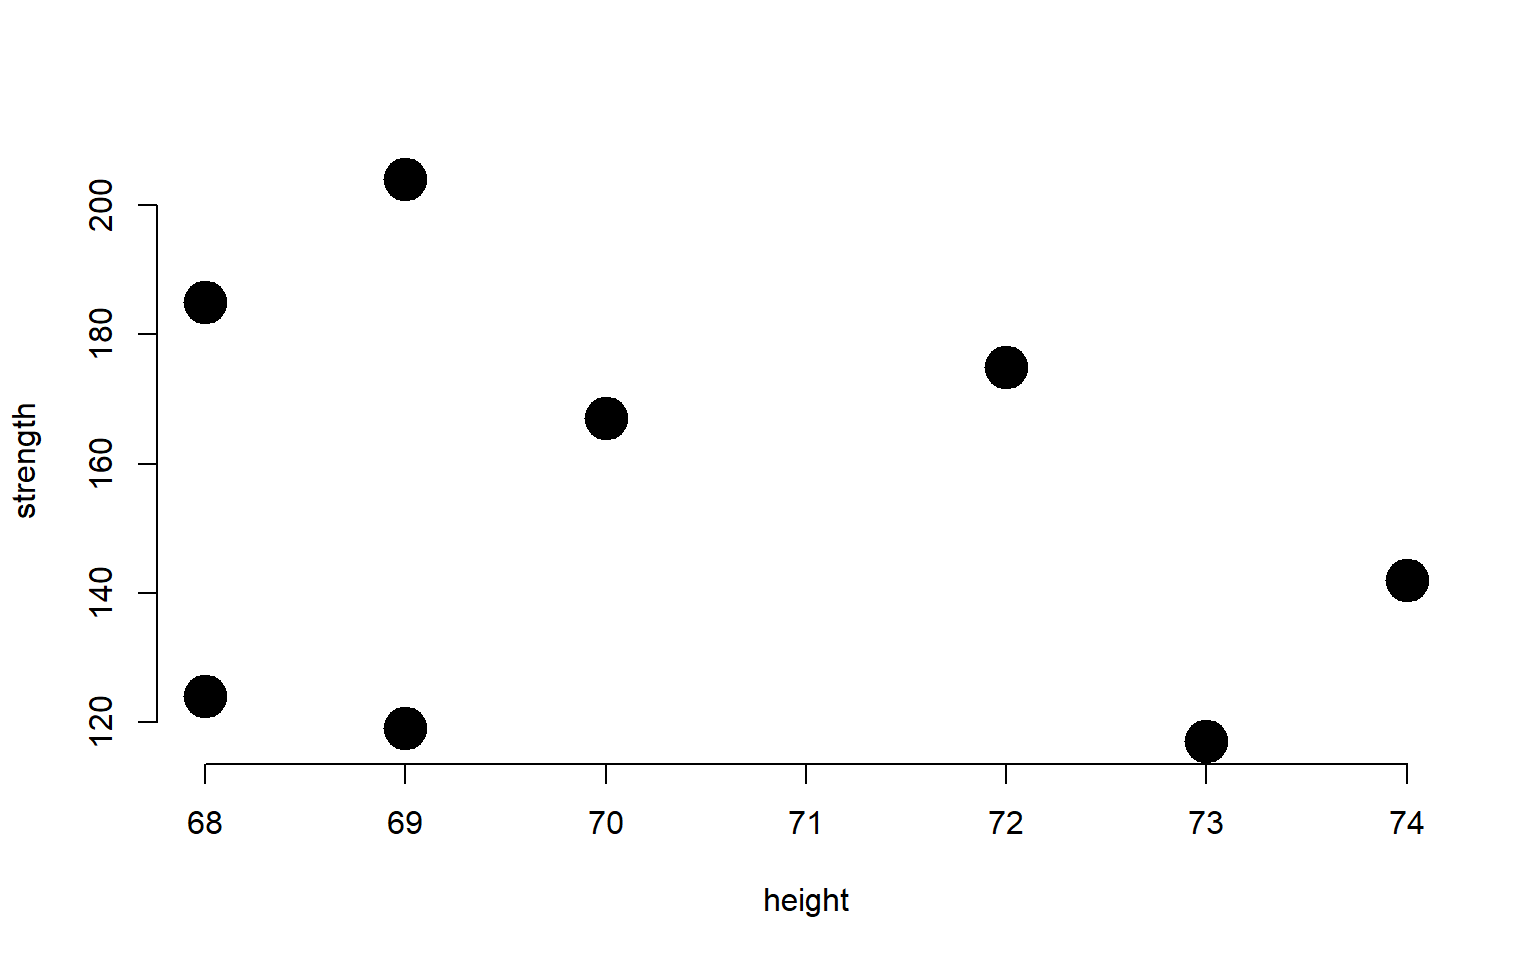
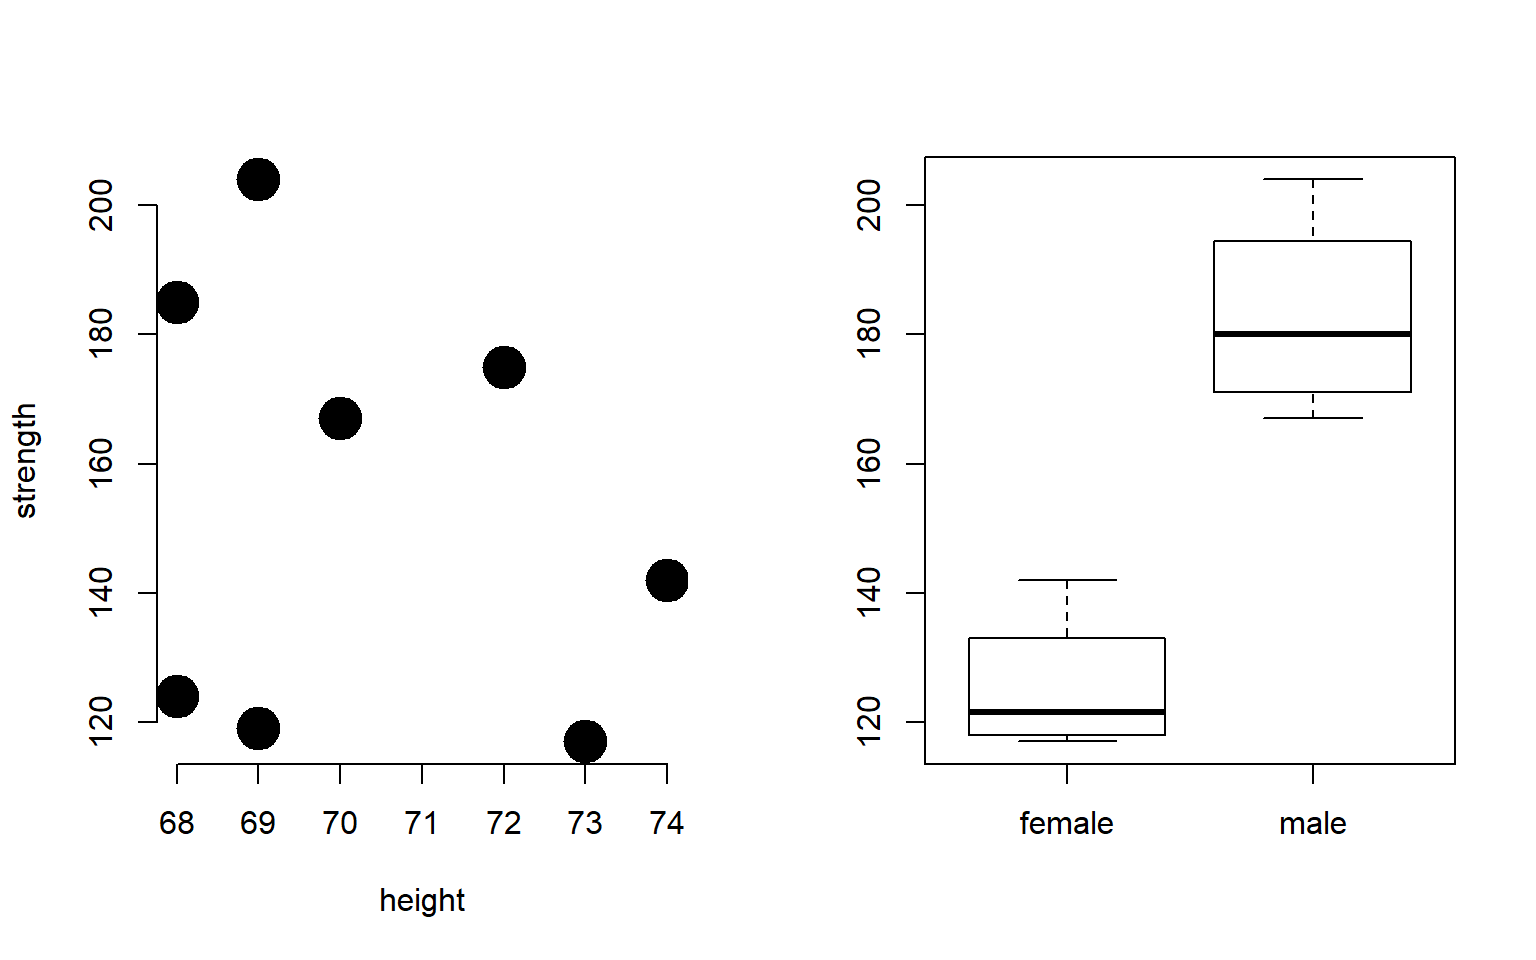
update vectors

diff --git a/ch-050-vectors.html b/ch-050-vectors.html
@@ -524,39 +524,45 @@ eyJsYW5ndWFnZSI6InIiLCJzYW1wbGUiOiJ4MSA8LSBjKDEsMiwzKSAgICAgICAgICAgICAgICAgICAg
 <a class="sourceLine" id="cb62-2" data-line-number="2">strength &lt;-<span class="st"> </span><span class="kw">c</span>(<span class="dv">167</span>,<span class="dv">185</span>,<span class="dv">119</span>,<span class="dv">142</span>,<span class="dv">175</span>,<span class="dv">204</span>,<span class="dv">124</span>,<span class="dv">117</span>)</a>
 <a class="sourceLine" id="cb62-3" data-line-number="3">sex &lt;-<span class="st"> </span><span class="kw">factor</span>( <span class="kw">c</span>(<span class="st">&quot;male&quot;</span>,<span class="st">&quot;male&quot;</span>,<span class="st">&quot;female&quot;</span>,<span class="st">&quot;female&quot;</span>,<span class="st">&quot;male&quot;</span>,<span class="st">&quot;male&quot;</span>,<span class="st">&quot;female&quot;</span>,<span class="st">&quot;female&quot;</span> ) )</a>
 <a class="sourceLine" id="cb62-4" data-line-number="4"></a>
-<a class="sourceLine" id="cb62-5" data-line-number="5"><span class="kw">plot</span>( height, strength,            <span class="co"># two numeric vectors: scatter plot</span></a>
-<a class="sourceLine" id="cb62-6" data-line-number="6">      <span class="dt">pch=</span><span class="dv">19</span>, <span class="dt">cex=</span><span class="dv">3</span>, <span class="dt">bty=</span><span class="st">&quot;n&quot;</span> )   </a></code></pre></div>
+<a class="sourceLine" id="cb62-5" data-line-number="5"><span class="kw">par</span>( <span class="dt">mfrow=</span><span class="kw">c</span>(<span class="dv">1</span>,<span class="dv">2</span>) )</a>
+<a class="sourceLine" id="cb62-6" data-line-number="6"><span class="kw">plot</span>( height, strength,            <span class="co"># two numeric vectors: scatter plot</span></a>
+<a class="sourceLine" id="cb62-7" data-line-number="7">      <span class="dt">pch=</span><span class="dv">19</span>, <span class="dt">cex=</span><span class="dv">3</span>, <span class="dt">bty=</span><span class="st">&quot;n&quot;</span> )   </a>
+<a class="sourceLine" id="cb62-8" data-line-number="8"><span class="kw">plot</span>( sex, strength )              <span class="co"># factor + numeric: box and whisker plot       </span></a></code></pre></div>
 <p><img src="ch-050-vectors_files/figure-html/unnamed-chunk-28-1.png" width="768" /></p>
-<div class="sourceCode" id="cb63"><pre class="sourceCode r"><code class="sourceCode r"><a class="sourceLine" id="cb63-1" data-line-number="1"><span class="kw">plot</span>( sex, strength )              <span class="co"># factor + numeric: box and whisker plot       </span></a></code></pre></div>
-<p><img src="ch-050-vectors_files/figure-html/unnamed-chunk-28-2.png" width="768" /></p>
+<div class="tip">
+<p>Note in this example the <strong>plot()</strong> function produced two different types of graphs.</p>
+<p>R uses the object type to determine behavior. This is called object-oriented programming. It makes the process of creating data recipes much faster!</p>
+<p>We will revisit this concept more later.</p>
+</div>
+<p><br> <br></p>
 <p>Factors are more memory efficient than character vectors because they store the underlying data as a numeric vector instead of a categorical (text) vector. Each group in the data is assigned a number, and when printing items the program only has to remember which group corresponds to which number:</p>
-<div class="sourceCode" id="cb64"><pre class="sourceCode r"><code class="sourceCode r"><a class="sourceLine" id="cb64-1" data-line-number="1"><span class="kw">as.numeric</span>( sex )</a></code></pre></div>
+<div class="sourceCode" id="cb63"><pre class="sourceCode r"><code class="sourceCode r"><a class="sourceLine" id="cb63-1" data-line-number="1"><span class="kw">as.numeric</span>( sex )</a></code></pre></div>
 <pre><code>## [1] 2 2 1 1 2 2 1 1</code></pre>
-<div class="sourceCode" id="cb66"><pre class="sourceCode r"><code class="sourceCode r"><a class="sourceLine" id="cb66-1" data-line-number="1"><span class="co">#  male = 2</span></a>
-<a class="sourceLine" id="cb66-2" data-line-number="2"><span class="co">#  female = 1</span></a></code></pre></div>
+<div class="sourceCode" id="cb65"><pre class="sourceCode r"><code class="sourceCode r"><a class="sourceLine" id="cb65-1" data-line-number="1"><span class="co">#  male = 2</span></a>
+<a class="sourceLine" id="cb65-2" data-line-number="2"><span class="co">#  female = 1</span></a></code></pre></div>
 <p>If you print a factor, the computer just replaces each category designation with its name (2 would be replaced with “male” in this example). These replacements can be done in real time without clogging the memory of your computer as they don’t need to be saved.</p>
 <p>In some instances a categorical variable might be represented by numbers. For example, grades 9-12 for high school kids. These can be tricky to re-cast.</p>
-<div class="sourceCode" id="cb67"><pre class="sourceCode r"><code class="sourceCode r"><a class="sourceLine" id="cb67-1" data-line-number="1">grades &lt;-<span class="st"> </span><span class="kw">sample</span>( <span class="dt">x=</span><span class="dv">9</span><span class="op">:</span><span class="dv">12</span>, <span class="dt">size=</span><span class="dv">10</span>, <span class="dt">replace=</span>T )</a>
-<a class="sourceLine" id="cb67-2" data-line-number="2">grades</a></code></pre></div>
-<pre><code>##  [1] 11 12 10 10 10 11 10 11 11 10</code></pre>
-<div class="sourceCode" id="cb69"><pre class="sourceCode r"><code class="sourceCode r"><a class="sourceLine" id="cb69-1" data-line-number="1">grades &lt;-<span class="st"> </span><span class="kw">as.factor</span>( grades )</a>
-<a class="sourceLine" id="cb69-2" data-line-number="2">grades</a></code></pre></div>
-<pre><code>##  [1] 11 12 10 10 10 11 10 11 11 10
-## Levels: 10 11 12</code></pre>
-<div class="sourceCode" id="cb71"><pre class="sourceCode r"><code class="sourceCode r"><a class="sourceLine" id="cb71-1" data-line-number="1"><span class="kw">as.numeric</span>( grades )</a></code></pre></div>
-<pre><code>##  [1] 2 3 1 1 1 2 1 2 2 1</code></pre>
-<div class="sourceCode" id="cb73"><pre class="sourceCode r"><code class="sourceCode r"><a class="sourceLine" id="cb73-1" data-line-number="1"><span class="kw">as.character</span>( grades )</a></code></pre></div>
-<pre><code>##  [1] &quot;11&quot; &quot;12&quot; &quot;10&quot; &quot;10&quot; &quot;10&quot; &quot;11&quot; &quot;10&quot; &quot;11&quot; &quot;11&quot; &quot;10&quot;</code></pre>
-<div class="sourceCode" id="cb75"><pre class="sourceCode r"><code class="sourceCode r"><a class="sourceLine" id="cb75-1" data-line-number="1"><span class="co"># proper way to get back to the original numeric vector</span></a>
-<a class="sourceLine" id="cb75-2" data-line-number="2"><span class="kw">as.numeric</span>( <span class="kw">as.character</span>( grades ))</a></code></pre></div>
-<pre><code>##  [1] 11 12 10 10 10 11 10 11 11 10</code></pre>
+<div class="sourceCode" id="cb66"><pre class="sourceCode r"><code class="sourceCode r"><a class="sourceLine" id="cb66-1" data-line-number="1">grades &lt;-<span class="st"> </span><span class="kw">sample</span>( <span class="dt">x=</span><span class="dv">9</span><span class="op">:</span><span class="dv">12</span>, <span class="dt">size=</span><span class="dv">10</span>, <span class="dt">replace=</span>T )</a>
+<a class="sourceLine" id="cb66-2" data-line-number="2">grades</a></code></pre></div>
+<pre><code>##  [1] 10 11  9 12 10 10 10 10  9 11</code></pre>
+<div class="sourceCode" id="cb68"><pre class="sourceCode r"><code class="sourceCode r"><a class="sourceLine" id="cb68-1" data-line-number="1">grades &lt;-<span class="st"> </span><span class="kw">as.factor</span>( grades )</a>
+<a class="sourceLine" id="cb68-2" data-line-number="2">grades</a></code></pre></div>
+<pre><code>##  [1] 10 11 9  12 10 10 10 10 9  11
+## Levels: 9 10 11 12</code></pre>
+<div class="sourceCode" id="cb70"><pre class="sourceCode r"><code class="sourceCode r"><a class="sourceLine" id="cb70-1" data-line-number="1"><span class="kw">as.numeric</span>( grades )</a></code></pre></div>
+<pre><code>##  [1] 2 3 1 4 2 2 2 2 1 3</code></pre>
+<div class="sourceCode" id="cb72"><pre class="sourceCode r"><code class="sourceCode r"><a class="sourceLine" id="cb72-1" data-line-number="1"><span class="kw">as.character</span>( grades )</a></code></pre></div>
+<pre><code>##  [1] &quot;10&quot; &quot;11&quot; &quot;9&quot;  &quot;12&quot; &quot;10&quot; &quot;10&quot; &quot;10&quot; &quot;10&quot; &quot;9&quot;  &quot;11&quot;</code></pre>
+<div class="sourceCode" id="cb74"><pre class="sourceCode r"><code class="sourceCode r"><a class="sourceLine" id="cb74-1" data-line-number="1"><span class="co"># proper way to get back to the original numeric vector</span></a>
+<a class="sourceLine" id="cb74-2" data-line-number="2"><span class="kw">as.numeric</span>( <span class="kw">as.character</span>( grades ))</a></code></pre></div>
+<pre><code>##  [1] 10 11  9 12 10 10 10 10  9 11</code></pre>
 <p><br></p>
 <div class="tip">
 <p>The <strong>very important</strong> rule to remember with factors is you can’t move directly from the factor to numeric using the <strong>as.numeric()</strong> casting function. This will give you the underlying data structure, but will not give you the category names. To get these, you need the <strong>as.character</strong> casting function.</p>
 </div>
 <p><br> <br></p>
 <p>TIP: When reading data from Excel spreadsheets (usually saved in the comma separated value or CSV format), remember to include the following argument to prevent the creation of factors, which can produce some annoying behaviors.</p>
-<div class="sourceCode" id="cb77"><pre class="sourceCode r"><code class="sourceCode r"><a class="sourceLine" id="cb77-1" data-line-number="1">dat &lt;-<span class="st"> </span><span class="kw">read.csv</span>( <span class="st">&quot;filename.csv&quot;</span>, <span class="dt">stringsAsFactors=</span>F )</a></code></pre></div>
+<div class="sourceCode" id="cb76"><pre class="sourceCode r"><code class="sourceCode r"><a class="sourceLine" id="cb76-1" data-line-number="1">dat &lt;-<span class="st"> </span><span class="kw">read.csv</span>( <span class="st">&quot;filename.csv&quot;</span>, <span class="dt">stringsAsFactors=</span>F )</a></code></pre></div>
 </div>
 <div id="logical-vectors" class="section level2">
 <h2><span class="header-section-number">3.7</span> Logical Vectors</h2>
@@ -605,19 +611,19 @@ eyJsYW5ndWFnZSI6InIiLCJzYW1wbGUiOiJ4MSA8LSBjKDEsMiwzKSAgICAgICAgICAgICAgICAgICAg
 </tr>
 </tbody>
 </table>
-<div class="sourceCode" id="cb78"><pre class="sourceCode r"><code class="sourceCode r"><a class="sourceLine" id="cb78-1" data-line-number="1">dat<span class="op">$</span>name <span class="op">==</span><span class="st"> &quot;sriti&quot;</span></a></code></pre></div>
+<div class="sourceCode" id="cb77"><pre class="sourceCode r"><code class="sourceCode r"><a class="sourceLine" id="cb77-1" data-line-number="1">dat<span class="op">$</span>name <span class="op">==</span><span class="st"> &quot;sriti&quot;</span></a></code></pre></div>
 <pre><code>## [1] FALSE FALSE FALSE  TRUE</code></pre>
-<div class="sourceCode" id="cb80"><pre class="sourceCode r"><code class="sourceCode r"><a class="sourceLine" id="cb80-1" data-line-number="1">dat<span class="op">$</span>sex <span class="op">==</span><span class="st"> &quot;male&quot;</span></a></code></pre></div>
+<div class="sourceCode" id="cb79"><pre class="sourceCode r"><code class="sourceCode r"><a class="sourceLine" id="cb79-1" data-line-number="1">dat<span class="op">$</span>sex <span class="op">==</span><span class="st"> &quot;male&quot;</span></a></code></pre></div>
 <pre><code>## [1]  TRUE  TRUE FALSE FALSE</code></pre>
-<div class="sourceCode" id="cb82"><pre class="sourceCode r"><code class="sourceCode r"><a class="sourceLine" id="cb82-1" data-line-number="1">dat<span class="op">$</span>strength <span class="op">&gt;</span><span class="st"> </span><span class="dv">180</span></a></code></pre></div>
+<div class="sourceCode" id="cb81"><pre class="sourceCode r"><code class="sourceCode r"><a class="sourceLine" id="cb81-1" data-line-number="1">dat<span class="op">$</span>strength <span class="op">&gt;</span><span class="st"> </span><span class="dv">180</span></a></code></pre></div>
 <pre><code>## [1] FALSE  TRUE FALSE FALSE</code></pre>
 <p>When defining logical vectors, you can use the abbreviated versions of T for TRUE and F for FALSE.</p>
-<div class="sourceCode" id="cb84"><pre class="sourceCode r"><code class="sourceCode r"><a class="sourceLine" id="cb84-1" data-line-number="1">z1 &lt;-<span class="st"> </span><span class="kw">c</span>(T,T,F,T,F,F)</a>
-<a class="sourceLine" id="cb84-2" data-line-number="2">z1</a></code></pre></div>
+<div class="sourceCode" id="cb83"><pre class="sourceCode r"><code class="sourceCode r"><a class="sourceLine" id="cb83-1" data-line-number="1">z1 &lt;-<span class="st"> </span><span class="kw">c</span>(T,T,F,T,F,F)</a>
+<a class="sourceLine" id="cb83-2" data-line-number="2">z1</a></code></pre></div>
 <pre><code>## [1]  TRUE  TRUE FALSE  TRUE FALSE FALSE</code></pre>
 <p>Typically logical vectors are used in combination with subset operators to identify specific groups in the data.</p>
-<div class="sourceCode" id="cb86"><pre class="sourceCode r"><code class="sourceCode r"><a class="sourceLine" id="cb86-1" data-line-number="1"><span class="co"># isolate data on all of the females in the dataset</span></a>
-<a class="sourceLine" id="cb86-2" data-line-number="2">dat[ dat<span class="op">$</span>sex <span class="op">==</span><span class="st"> &quot;female&quot;</span> , ]</a></code></pre></div>
+<div class="sourceCode" id="cb85"><pre class="sourceCode r"><code class="sourceCode r"><a class="sourceLine" id="cb85-1" data-line-number="1"><span class="co"># isolate data on all of the females in the dataset</span></a>
+<a class="sourceLine" id="cb85-2" data-line-number="2">dat[ dat<span class="op">$</span>sex <span class="op">==</span><span class="st"> &quot;female&quot;</span> , ]</a></code></pre></div>
 <pre><code>##    name    sex     treat strength
 ## 3 linda female treatment      119
 ## 4 sriti female   control      142</code></pre>
@@ -655,21 +661,21 @@ eyJsYW5ndWFnZSI6InIiLCJzYW1wbGUiOiIjIGNyZWF0ZSBkYXRhIHRoYXQgZm9sbG93cyBhIG5vcm1h
 <h2><span class="header-section-number">3.9</span> Recycling</h2>
 <p>When we create a new variable from existing variables, it is called a ‘transformation’. This is very common in data science. Crime is measures by the number of assaults <em>per 100,000 people</em>, for example (crime / pop). A batting average is the number of hits divided by the number of at bats.</p>
 <p>In R, mathematical operations are <em>vectorized</em>, which means that operations are performed on the entire vector all at once. This makes transformations fast and easy.</p>
-<div class="sourceCode" id="cb88"><pre class="sourceCode r"><code class="sourceCode r"><a class="sourceLine" id="cb88-1" data-line-number="1">x &lt;-<span class="st"> </span><span class="dv">1</span><span class="op">:</span><span class="dv">10</span></a>
-<a class="sourceLine" id="cb88-2" data-line-number="2">x <span class="op">+</span><span class="st"> </span><span class="dv">5</span></a></code></pre></div>
+<div class="sourceCode" id="cb87"><pre class="sourceCode r"><code class="sourceCode r"><a class="sourceLine" id="cb87-1" data-line-number="1">x &lt;-<span class="st"> </span><span class="dv">1</span><span class="op">:</span><span class="dv">10</span></a>
+<a class="sourceLine" id="cb87-2" data-line-number="2">x <span class="op">+</span><span class="st"> </span><span class="dv">5</span></a></code></pre></div>
 <pre><code>##  [1]  6  7  8  9 10 11 12 13 14 15</code></pre>
-<div class="sourceCode" id="cb90"><pre class="sourceCode r"><code class="sourceCode r"><a class="sourceLine" id="cb90-1" data-line-number="1">x <span class="op">*</span><span class="st"> </span><span class="dv">5</span></a></code></pre></div>
+<div class="sourceCode" id="cb89"><pre class="sourceCode r"><code class="sourceCode r"><a class="sourceLine" id="cb89-1" data-line-number="1">x <span class="op">*</span><span class="st"> </span><span class="dv">5</span></a></code></pre></div>
 <pre><code>##  [1]  5 10 15 20 25 30 35 40 45 50</code></pre>
 <p>R uses a convention called “recycling”, which means that it will re-use elements of a vector if necessary. In the example below the x vector has 10 elements, but the y vector only has 5 elements. When we run out of y, we just start over from the beginning. This is powerful in some instances, but can be dangerous in others if you don’t realize that that it is happening.</p>
-<div class="sourceCode" id="cb92"><pre class="sourceCode r"><code class="sourceCode r"><a class="sourceLine" id="cb92-1" data-line-number="1">x &lt;-<span class="st"> </span><span class="dv">1</span><span class="op">:</span><span class="dv">10</span></a>
-<a class="sourceLine" id="cb92-2" data-line-number="2">y &lt;-<span class="st"> </span><span class="dv">1</span><span class="op">:</span><span class="dv">5</span></a>
-<a class="sourceLine" id="cb92-3" data-line-number="3">x <span class="op">+</span><span class="st"> </span>y</a></code></pre></div>
+<div class="sourceCode" id="cb91"><pre class="sourceCode r"><code class="sourceCode r"><a class="sourceLine" id="cb91-1" data-line-number="1">x &lt;-<span class="st"> </span><span class="dv">1</span><span class="op">:</span><span class="dv">10</span></a>
+<a class="sourceLine" id="cb91-2" data-line-number="2">y &lt;-<span class="st"> </span><span class="dv">1</span><span class="op">:</span><span class="dv">5</span></a>
+<a class="sourceLine" id="cb91-3" data-line-number="3">x <span class="op">+</span><span class="st"> </span>y</a></code></pre></div>
 <pre><code>##  [1]  2  4  6  8 10  7  9 11 13 15</code></pre>
-<div class="sourceCode" id="cb94"><pre class="sourceCode r"><code class="sourceCode r"><a class="sourceLine" id="cb94-1" data-line-number="1">x <span class="op">*</span><span class="st"> </span>y</a></code></pre></div>
+<div class="sourceCode" id="cb93"><pre class="sourceCode r"><code class="sourceCode r"><a class="sourceLine" id="cb93-1" data-line-number="1">x <span class="op">*</span><span class="st"> </span>y</a></code></pre></div>
 <pre><code>##  [1]  1  4  9 16 25  6 14 24 36 50</code></pre>
-<div class="sourceCode" id="cb96"><pre class="sourceCode r"><code class="sourceCode r"><a class="sourceLine" id="cb96-1" data-line-number="1"><span class="co"># the colors are recycled</span></a>
-<a class="sourceLine" id="cb96-2" data-line-number="2"></a>
-<a class="sourceLine" id="cb96-3" data-line-number="3"><span class="kw">plot</span>( <span class="dv">1</span><span class="op">:</span><span class="dv">5</span>, <span class="dv">1</span><span class="op">:</span><span class="dv">5</span>, <span class="dt">col=</span><span class="kw">c</span>(<span class="st">&quot;red&quot;</span>,<span class="st">&quot;blue&quot;</span>), <span class="dt">pch=</span><span class="dv">19</span>, <span class="dt">cex=</span><span class="dv">3</span>, <span class="dt">bty=</span><span class="st">&quot;n&quot;</span> )</a></code></pre></div>
+<div class="sourceCode" id="cb95"><pre class="sourceCode r"><code class="sourceCode r"><a class="sourceLine" id="cb95-1" data-line-number="1"><span class="co"># the colors are recycled</span></a>
+<a class="sourceLine" id="cb95-2" data-line-number="2"></a>
+<a class="sourceLine" id="cb95-3" data-line-number="3"><span class="kw">plot</span>( <span class="dv">1</span><span class="op">:</span><span class="dv">5</span>, <span class="dv">1</span><span class="op">:</span><span class="dv">5</span>, <span class="dt">col=</span><span class="kw">c</span>(<span class="st">&quot;red&quot;</span>,<span class="st">&quot;blue&quot;</span>), <span class="dt">pch=</span><span class="dv">19</span>, <span class="dt">cex=</span><span class="dv">3</span>, <span class="dt">bty=</span><span class="st">&quot;n&quot;</span> )</a></code></pre></div>
 <p><img src="ch-050-vectors_files/figure-html/unnamed-chunk-45-1.png" width="768" /></p>
 <p>Here is an example of recycling gone wrong:</p>
 <table style="width:57%;">
@@ -714,23 +720,23 @@ eyJsYW5ndWFnZSI6InIiLCJzYW1wbGUiOiIjIGNyZWF0ZSBkYXRhIHRoYXQgZm9sbG93cyBhIG5vcm1h
 </tr>
 </tbody>
 </table>
-<div class="sourceCode" id="cb97"><pre class="sourceCode r"><code class="sourceCode r"><a class="sourceLine" id="cb97-1" data-line-number="1"><span class="co"># create a subset of data of all female study participants</span></a>
-<a class="sourceLine" id="cb97-2" data-line-number="2"></a>
-<a class="sourceLine" id="cb97-3" data-line-number="3">dat<span class="op">$</span>sex <span class="op">==</span><span class="st"> &quot;female&quot;</span></a></code></pre></div>
+<div class="sourceCode" id="cb96"><pre class="sourceCode r"><code class="sourceCode r"><a class="sourceLine" id="cb96-1" data-line-number="1"><span class="co"># create a subset of data of all female study participants</span></a>
+<a class="sourceLine" id="cb96-2" data-line-number="2"></a>
+<a class="sourceLine" id="cb96-3" data-line-number="3">dat<span class="op">$</span>sex <span class="op">==</span><span class="st"> &quot;female&quot;</span></a></code></pre></div>
 <pre><code>## [1] FALSE FALSE  TRUE  TRUE</code></pre>
-<div class="sourceCode" id="cb99"><pre class="sourceCode r"><code class="sourceCode r"><a class="sourceLine" id="cb99-1" data-line-number="1">these &lt;-<span class="st"> </span>dat<span class="op">$</span>sex <span class="op">==</span><span class="st"> &quot;female&quot;</span></a>
-<a class="sourceLine" id="cb99-2" data-line-number="2">dat[ these, ]  <span class="co"># correct subset</span></a></code></pre></div>
+<div class="sourceCode" id="cb98"><pre class="sourceCode r"><code class="sourceCode r"><a class="sourceLine" id="cb98-1" data-line-number="1">these &lt;-<span class="st"> </span>dat<span class="op">$</span>sex <span class="op">==</span><span class="st"> &quot;female&quot;</span></a>
+<a class="sourceLine" id="cb98-2" data-line-number="2">dat[ these, ]  <span class="co"># correct subset</span></a></code></pre></div>
 <pre><code>##    name    sex     treat strength
 ## 3 linda female treatment      119
 ## 4 sriti female   control      142</code></pre>
-<div class="sourceCode" id="cb101"><pre class="sourceCode r"><code class="sourceCode r"><a class="sourceLine" id="cb101-1" data-line-number="1"><span class="co"># same thing with a mistake</span></a>
-<a class="sourceLine" id="cb101-2" data-line-number="2"><span class="co"># whoops! should be double equal for a logical statement</span></a>
-<a class="sourceLine" id="cb101-3" data-line-number="3"><span class="co"># the female element is recycled </span></a>
-<a class="sourceLine" id="cb101-4" data-line-number="4"><span class="co"># just wrote over my raw data! </span></a>
-<a class="sourceLine" id="cb101-5" data-line-number="5"></a>
-<a class="sourceLine" id="cb101-6" data-line-number="6">dat<span class="op">$</span>sex =<span class="st"> &quot;female&quot;</span>    </a>
-<a class="sourceLine" id="cb101-7" data-line-number="7">these &lt;-<span class="st"> </span>dat<span class="op">$</span>sex <span class="op">==</span><span class="st"> &quot;female&quot;</span> </a>
-<a class="sourceLine" id="cb101-8" data-line-number="8">dat[ these , ]</a></code></pre></div>
+<div class="sourceCode" id="cb100"><pre class="sourceCode r"><code class="sourceCode r"><a class="sourceLine" id="cb100-1" data-line-number="1"><span class="co"># same thing with a mistake</span></a>
+<a class="sourceLine" id="cb100-2" data-line-number="2"><span class="co"># whoops! should be double equal for a logical statement</span></a>
+<a class="sourceLine" id="cb100-3" data-line-number="3"><span class="co"># the female element is recycled </span></a>
+<a class="sourceLine" id="cb100-4" data-line-number="4"><span class="co"># just wrote over my raw data! </span></a>
+<a class="sourceLine" id="cb100-5" data-line-number="5"></a>
+<a class="sourceLine" id="cb100-6" data-line-number="6">dat<span class="op">$</span>sex =<span class="st"> &quot;female&quot;</span>    </a>
+<a class="sourceLine" id="cb100-7" data-line-number="7">these &lt;-<span class="st"> </span>dat<span class="op">$</span>sex <span class="op">==</span><span class="st"> &quot;female&quot;</span> </a>
+<a class="sourceLine" id="cb100-8" data-line-number="8">dat[ these , ]</a></code></pre></div>
 <pre><code>##    name    sex     treat strength
 ## 1  adam female treatment      167
 ## 2 jamal female   control      185
